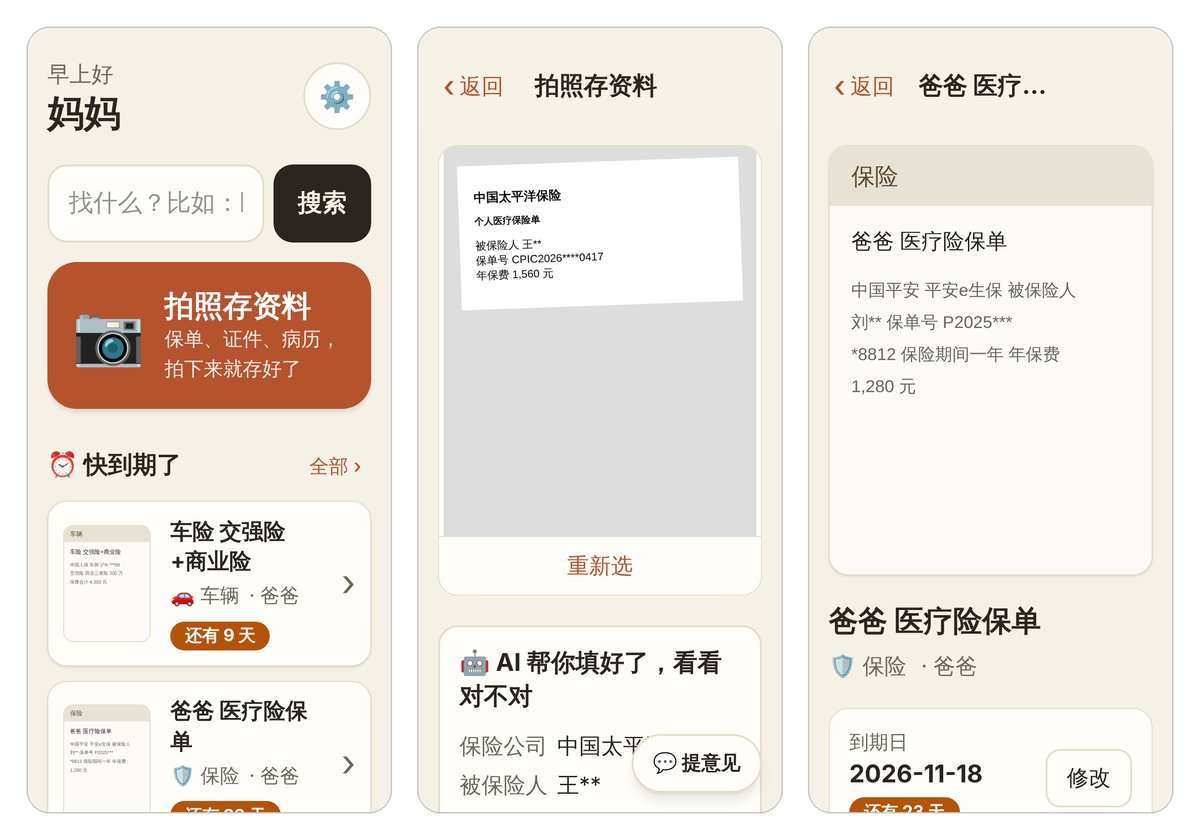
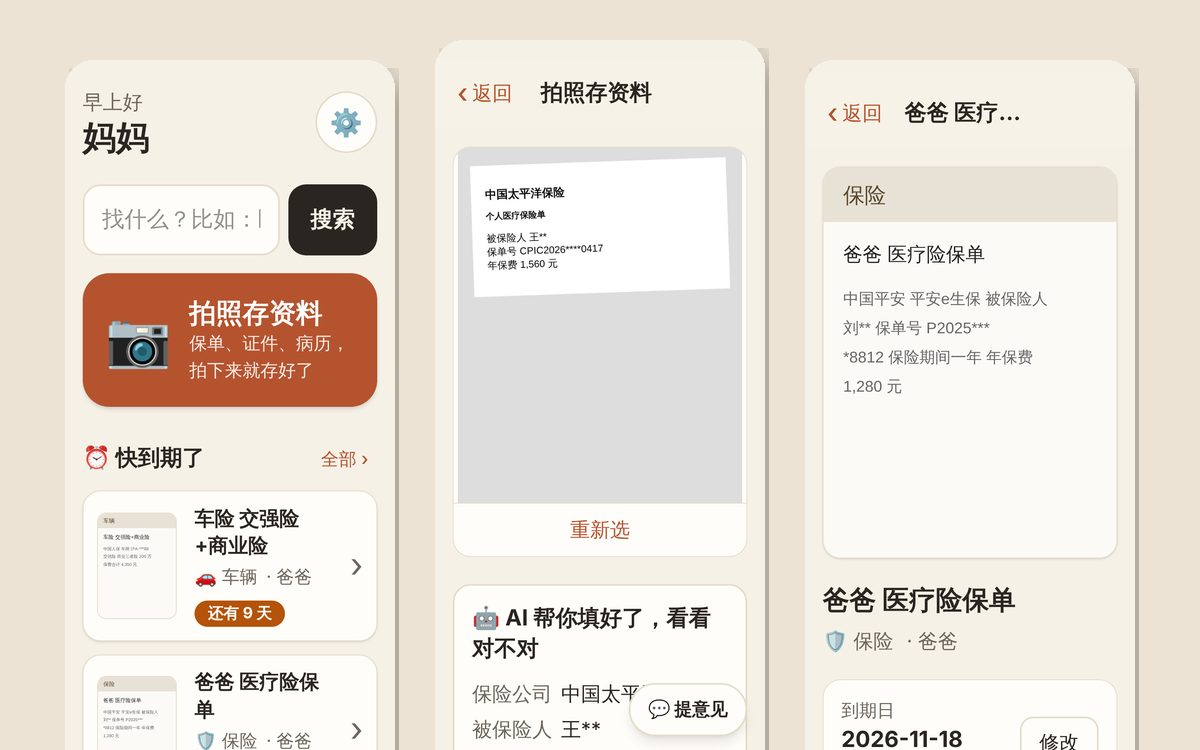
Restyle Beyond Research as compact project cards

diff --git a/_includes/head/custom.html b/_includes/head/custom.html
@@ -78,6 +78,52 @@
     margin-left: -0.45rem;
     margin-right: 0.15rem;
   }
+  .side-projects {
+    display: grid;
+    grid-template-columns: repeat(auto-fit, minmax(240px, 1fr));
+    gap: 1rem;
+    margin: 1em 0 2em;
+  }
+  .page__content a.side-project {
+    display: flex;
+    flex-direction: column;
+    overflow: hidden;
+    border: 1px solid #e1e4e8;
+    border-radius: 10px;
+    color: inherit;
+    text-decoration: none;
+    transition: box-shadow 0.15s, transform 0.15s;
+  }
+  .page__content a.side-project:hover {
+    box-shadow: 0 6px 18px rgba(0, 0, 0, 0.08);
+    transform: translateY(-2px);
+  }
+  .side-project img {
+    display: block;
+    width: 100%;
+    aspect-ratio: 16 / 10;
+    object-fit: cover;
+  }
+  .side-project__body {
+    display: flex;
+    flex-direction: column;
+    gap: 0.3em;
+    padding: 0.8em 1em 1em;
+    font-size: 0.85em;
+    line-height: 1.5;
+  }
+  .side-project__body strong {
+    font-size: 1.15em;
+  }
+  .side-project__body span {
+    color: #57606a;
+  }
+  .side-project__body em {
+    margin-top: auto;
+    color: #2f6fdb;
+    font-style: normal;
+    font-size: 0.95em;
+  }
 </style>
 
 <!-- Support for MatJax -->

diff --git a/_pages/about.md b/_pages/about.md
@@ -106,20 +106,21 @@ My research interests lie in **Robotics and Autonomous Systems, SLAM and Neural 
 
 # Beyond Research
 
-## Akasha
-
-A family information hub built for my parents. They snap a photo of an insurance policy, ID or medical record on their phone, and an AI model fills in the details and reminds the family before anything expires. Large text, big buttons, and a Chinese-first interface keep it easy for elderly users. It is self-hosted on a home NAS on top of [Paperless-ngx](https://github.com/paperless-ngx/paperless-ngx) and is open source (MIT), so other families can run their own.
-<br/>
-<img src="/images/akasha.jpg" alt="Akasha screenshots: home page, AI auto-fill and document detail"/><br/>
-<p class="project-links">
-  <a href="https://github.com/jianhengLiu/akasha">Code</a>{% include github-stars.html repo="jianhengLiu/akasha" %}
-</p>
-
-## MatRix
-
-An interactive smart carpet made of magnetic, fool-proof tiles that can be joined without limit. It works as a home smart terminal, a game pad, or decoration. Best Design Award, 2020 Smart C-end Technology Innovation Training Camp.
-<br/>
-<iframe width="354px" height="225px" src="https://player.bilibili.com/player.html?aid=632887496&bvid=BV1gb4y127by&cid=405321402&page=1&as_wide=0&high_quality=1" scrolling="no" border="0" frameborder="no" framespacing="0"> </iframe><br/>
-<p class="project-links">
-  <a href="https://www.bilibili.com/video/BV1gb4y127by?share_source=copy_web">Video</a>
-</p>
+<div class="side-projects">
+  <a class="side-project" href="https://github.com/jianhengLiu/akasha">
+    <img src="/images/akasha.jpg" alt="Akasha screenshots" loading="lazy">
+    <div class="side-project__body">
+      <strong>Akasha</strong>
+      <span>An elder-friendly family info hub for my parents: snap a photo of a policy or ID, AI fills in the details and reminds before it expires. Self-hosted, open source.</span>
+      <em>GitHub ↗</em>
+    </div>
+  </a>
+  <a class="side-project" href="https://www.bilibili.com/video/BV1gb4y127by">
+    <img src="/images/matrix.jpg" alt="MatRix light-up carpet tiles" loading="lazy">
+    <div class="side-project__body">
+      <strong>MatRix</strong>
+      <span>An interactive smart carpet of magnetic tiles that snap together without limit. Best Design Award, 2020 Smart C-end Innovation Camp.</span>
+      <em>Video ↗</em>
+    </div>
+  </a>
+</div>
